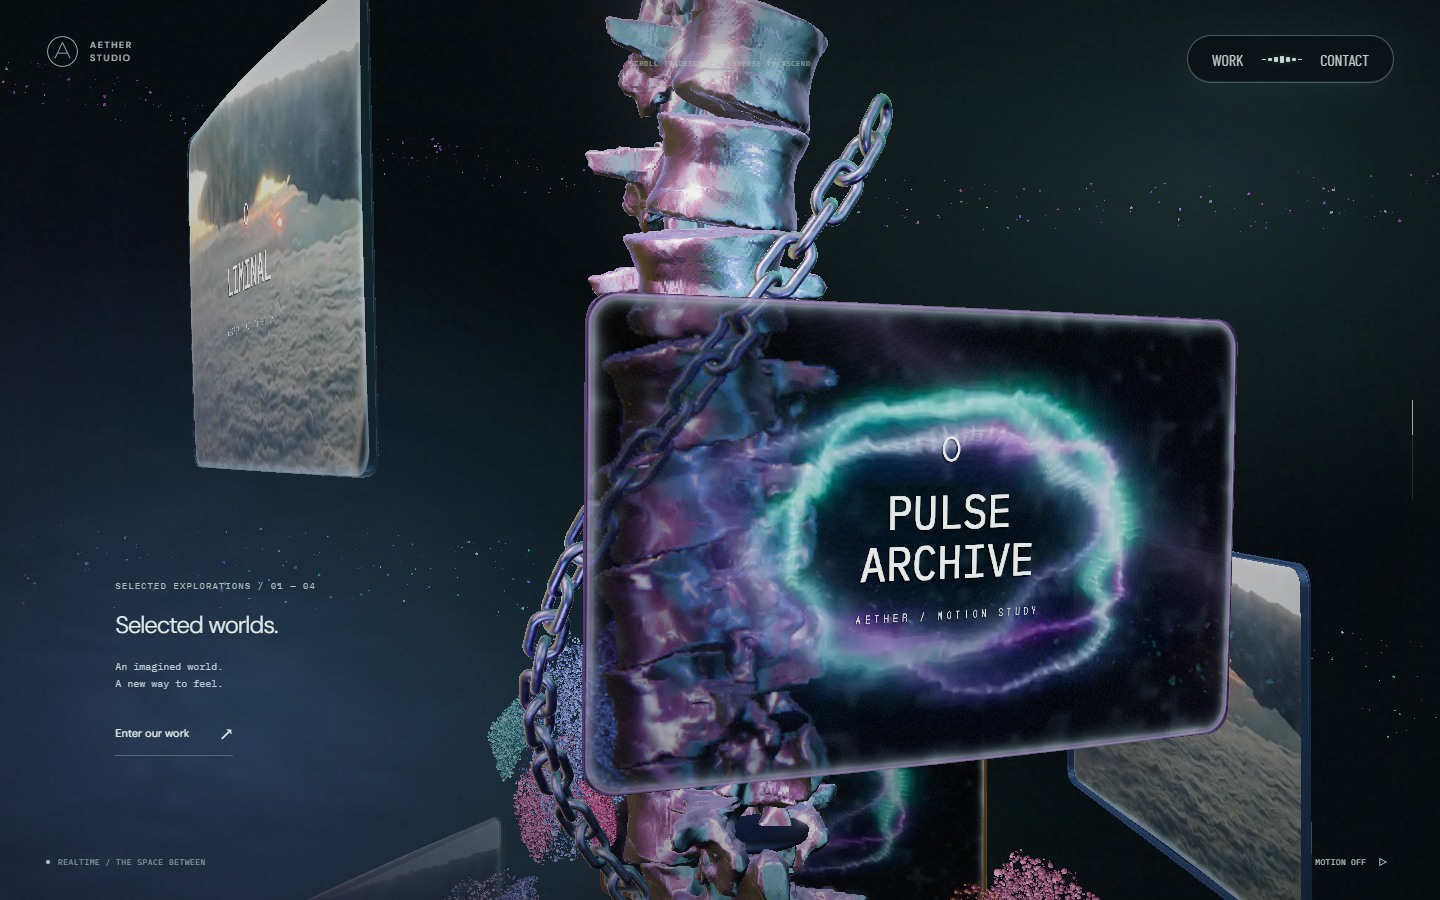
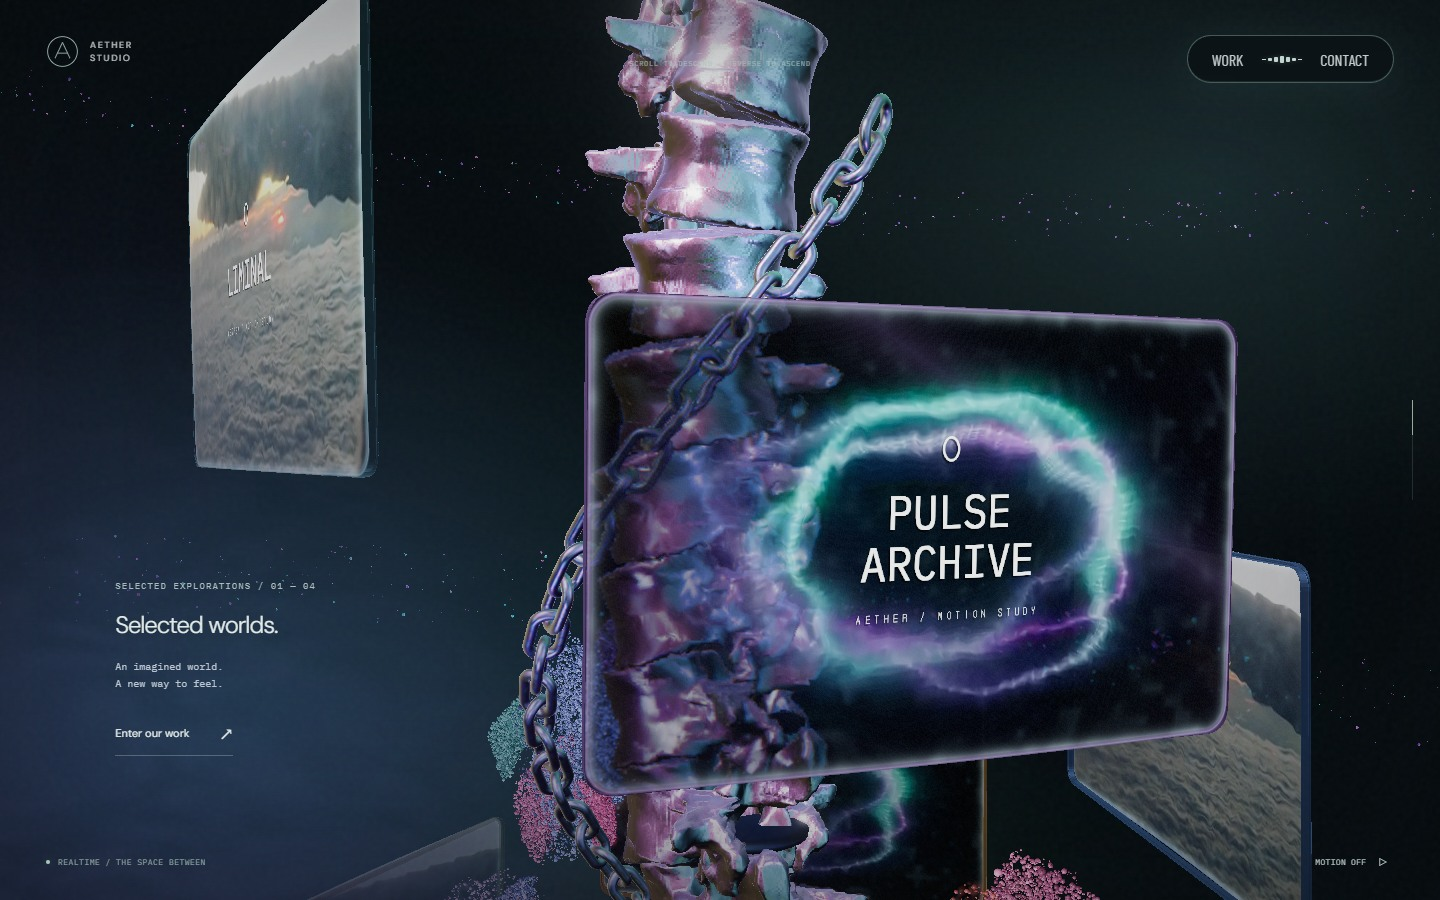
docs: record scene flow verification and final capture

diff --git a/docs/scene-flow-and-monitors.md b/docs/scene-flow-and-monitors.md
@@ -10,7 +10,7 @@
 
 본 컬럼 상단 큰 꽃의 바깥쪽 입자는 경계선 쪽의 더 높은 위치에서 들어온다. 하단 큰 꽃의 해당 입자는 넓은 곡선을 따라 안쪽으로 모인 뒤 리액터 개구부 높이로 내려간다. 선택 강도를 꽃잎 사이에서 연속적으로 바꾸므로 절반을 자른 선이 생기지 않는다. 경로는 절대 스크롤 위치로 계산해 역스크롤이 같은 위치를 되짚는다.
 
-리액터 입자는 투명한 고리와 밝은 가장자리를 없애고, 채워진 표면에 작은 명암과 색 편차를 준다. 최대 크기와 조명 영상의 가산 강도를 낮췄다. GPU 유체 위치, 포인터 힘, O 형성 경로는 변경하지 않았다.
+리액터 입자는 투명한 고리와 밝은 가장자리를 없애고, 채워진 표면에 작은 명암과 색 편차를 준다. 입자 크기와 조명 영상의 가산 강도를 낮췄다. GPU 유체 위치, 포인터 힘, O 형성 경로는 변경하지 않았다.
 
 ## 모니터 추가·삭제
 
@@ -34,6 +34,8 @@
 ## 검증과 한계
 
 모니터 0·1·3·8개의 배치·프로젝트 연결·역스크롤, 서로 다른 모델 비율, 영상 0·1·3개의 생성·해제를 검사한다. 숲은 근거리 합류 비율과 닫힌 경계의 실제 GPU 픽셀을 검사하고, 꽃은 실제 정점 셰이더의 중앙 수렴·높이·역방향 위치를 읽는다. 기존 리액터 유체·포인터와 영상 실패 처리 검사를 함께 실행한다.
+
+2026-09-26 로컬 검증에서 lint, typecheck, build와 Playwright 140개 검사가 통과했다. 환경 조건에 따른 1개는 건너뛰었다. 1440×900의 숲·꽃 이동 단계와 리액터 입력·복원, 390×844의 주요 장면을 캡처했으며 브라우저 실행 오류는 없었다.
 
 실행 화면은 1440×900, 같은 스크롤 진행도, 기본 시점, 모션 정지, 영상 2초 프레임으로 비교한다. 연속 스크롤과 모바일 화면은 별도로 확인한다. 브라우저 에뮬레이션은 실제 iOS·Android 기기 검증을 대신하지 않는다. 모니터를 많이 추가하면 각 모니터를 보는 스크롤 거리가 짧아지고, 서로 다른 영상 수만큼 디코더 비용이 늘어난다.
 
